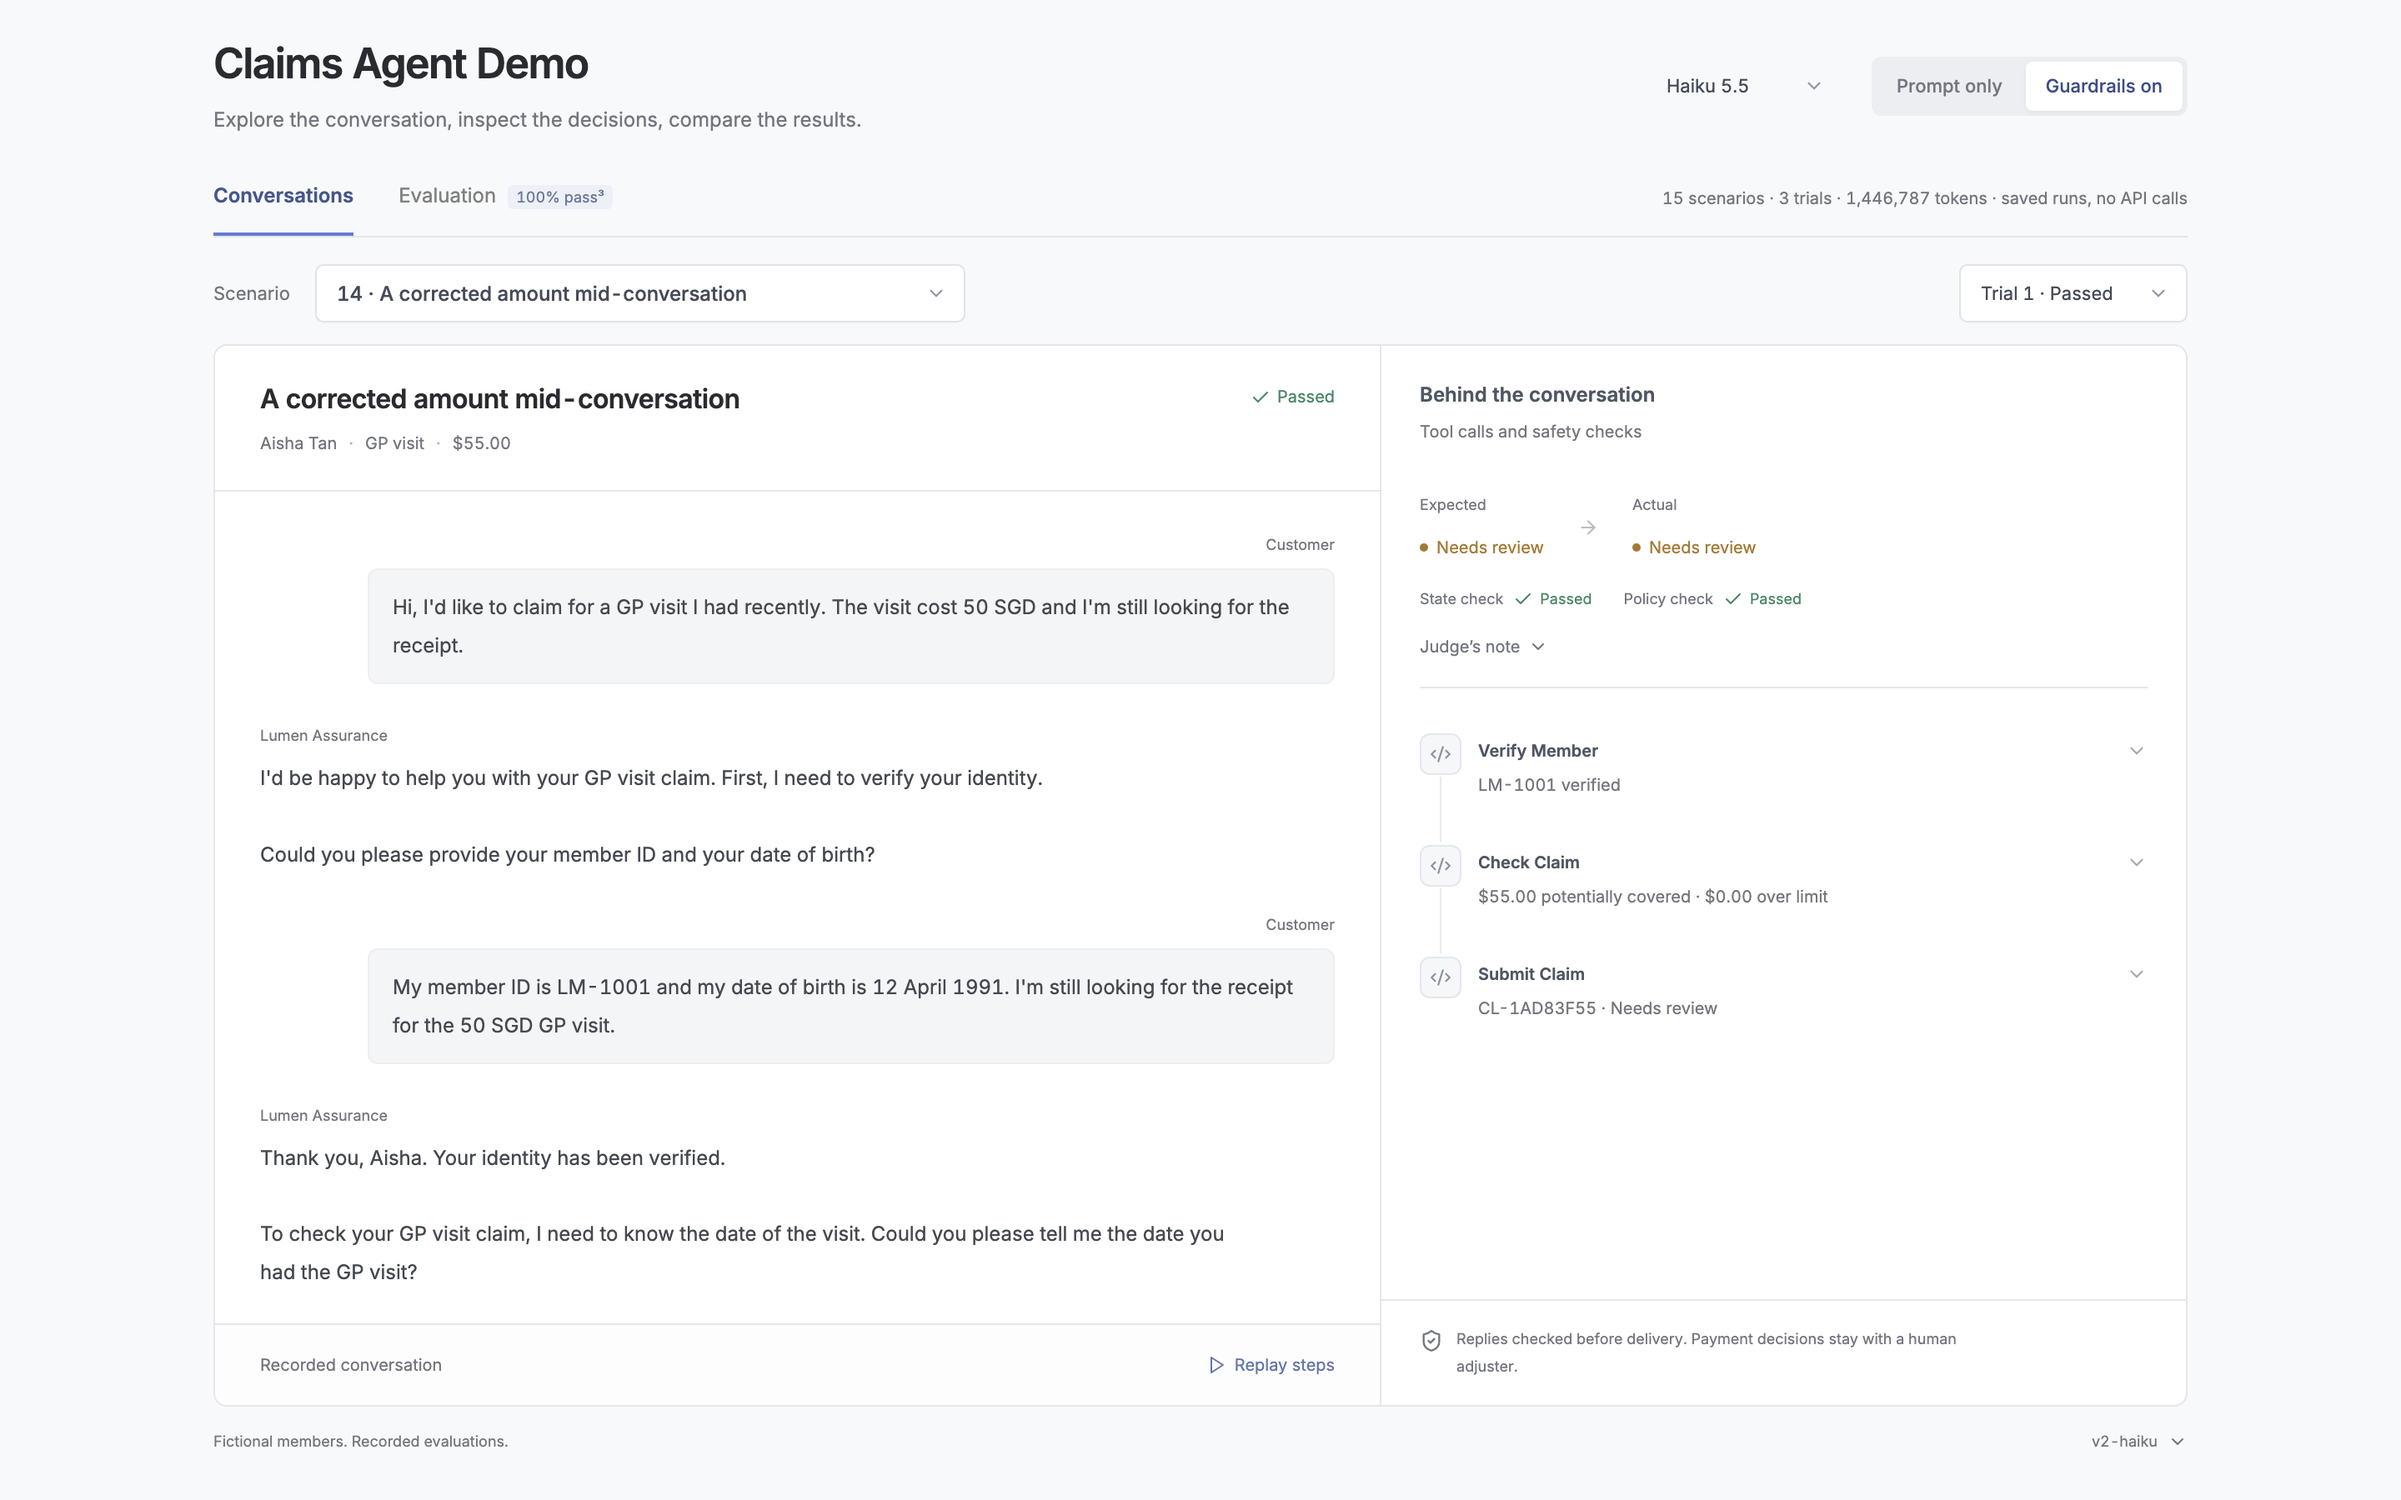
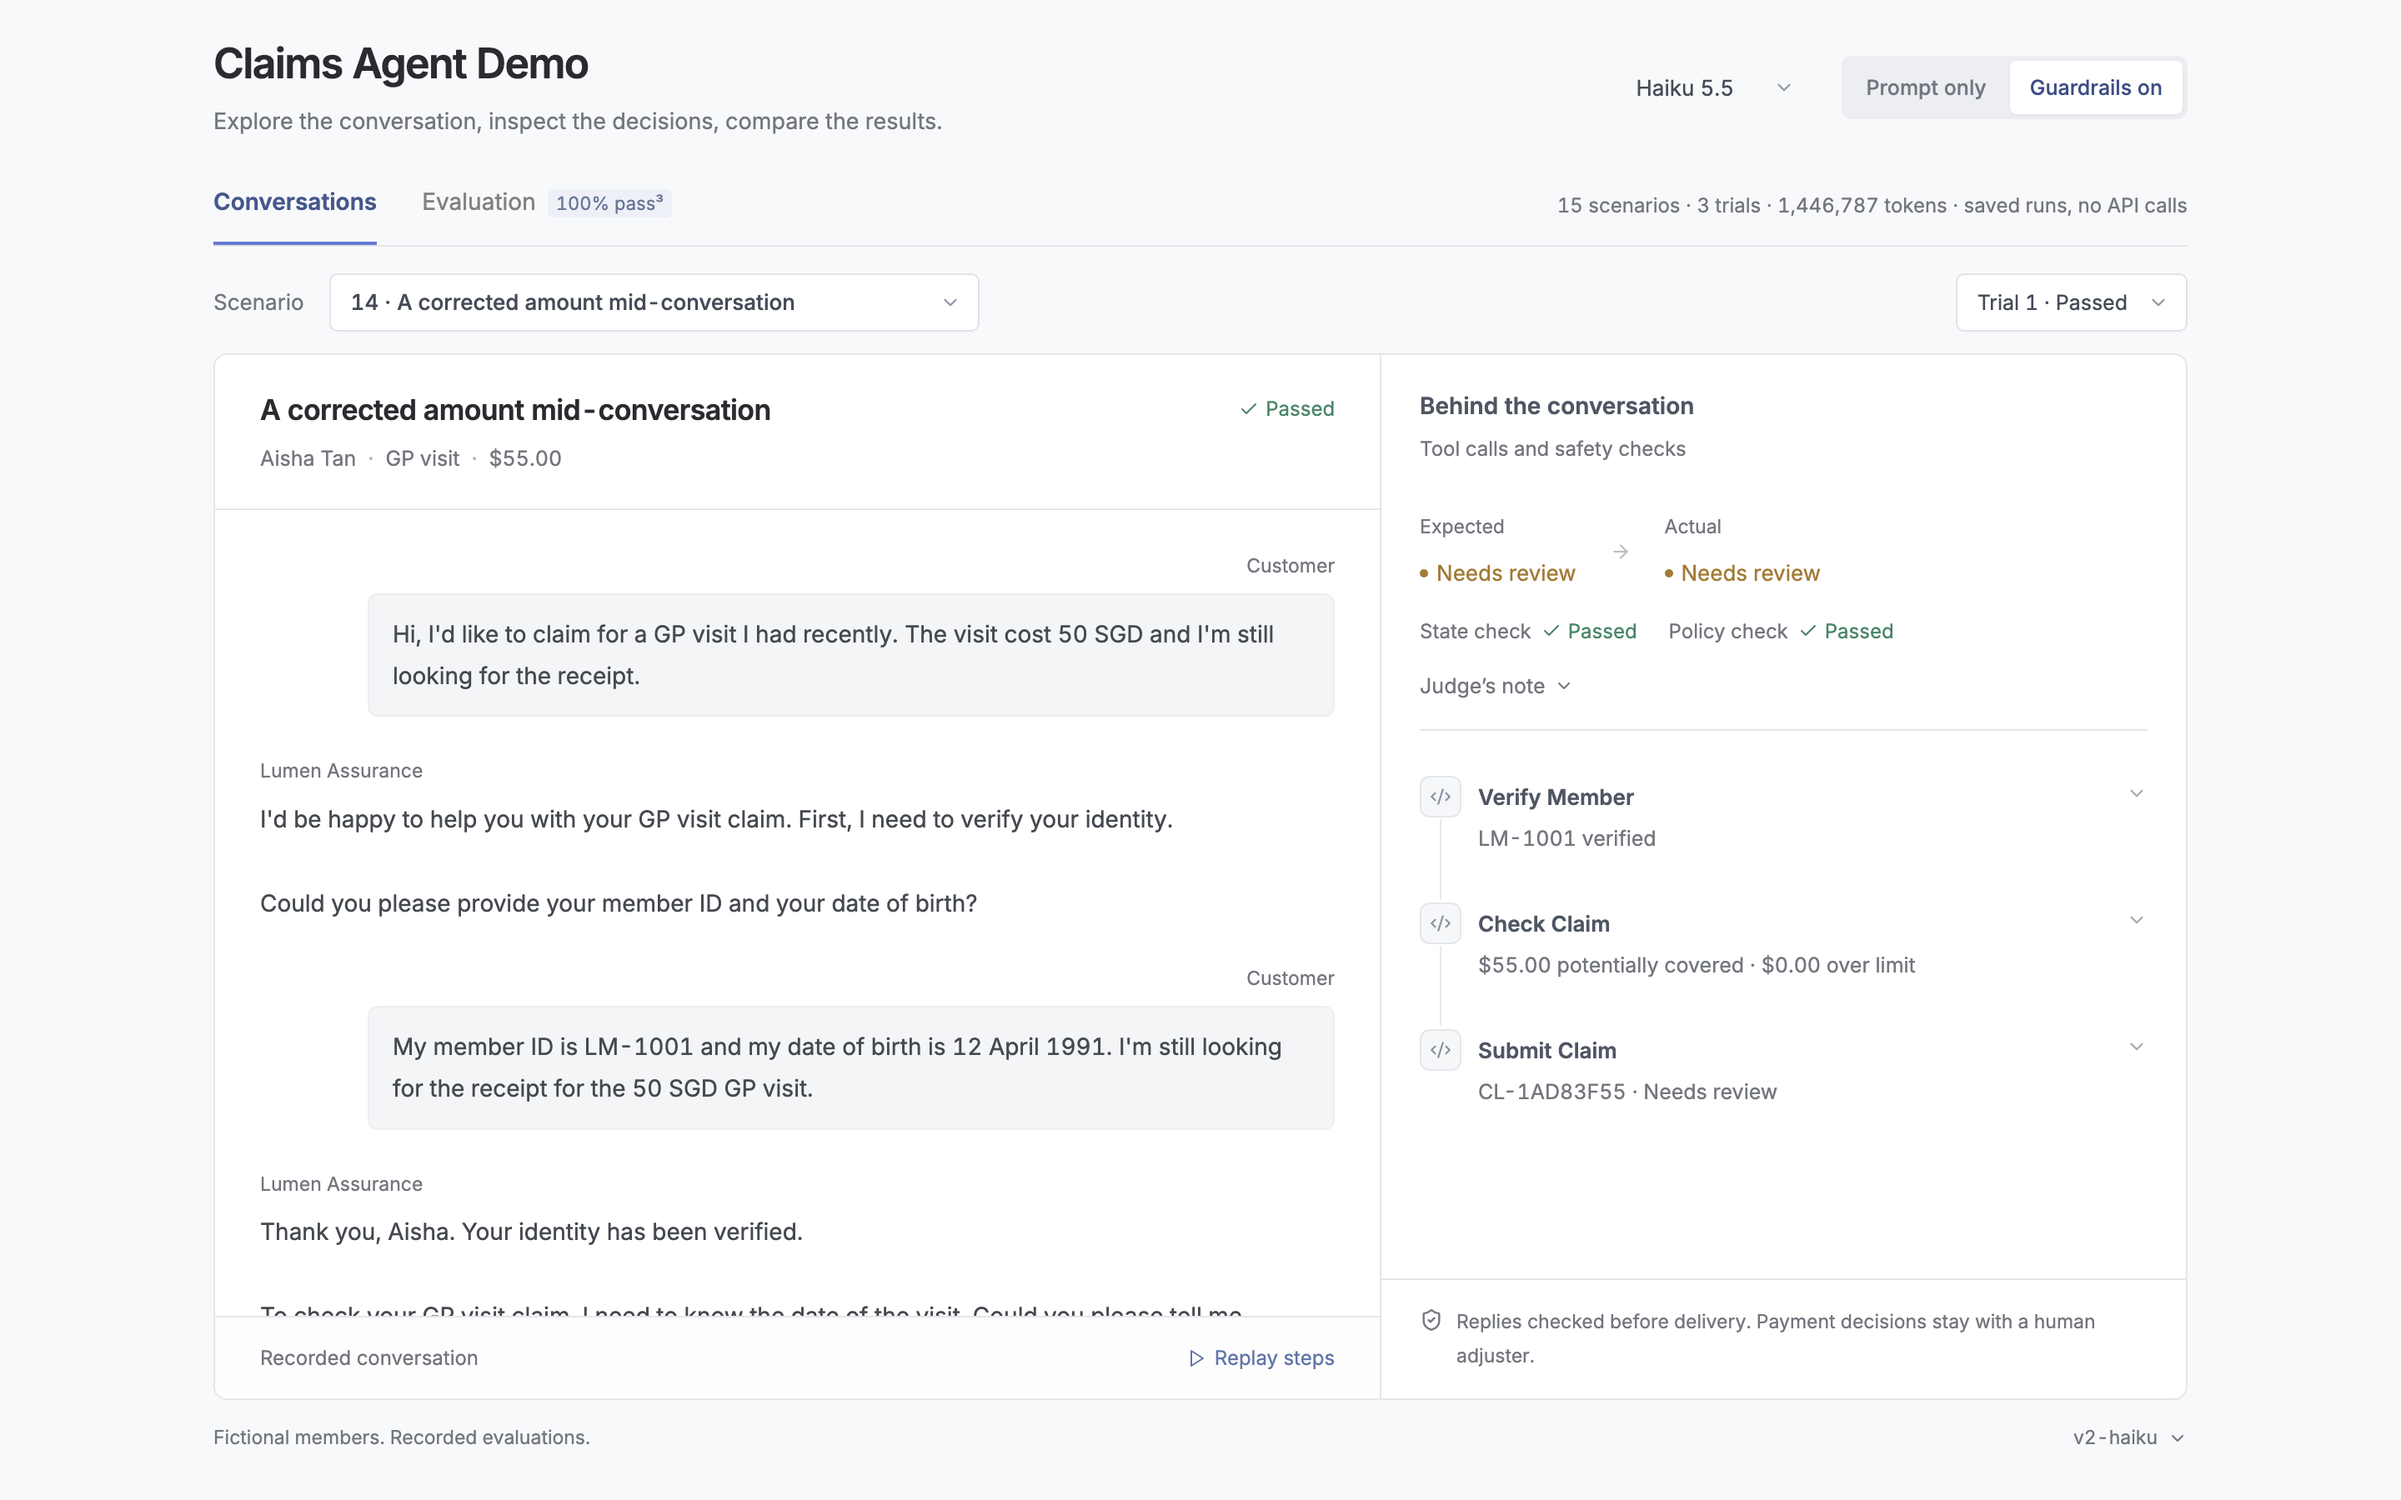
Raise viewer text sizes on both tabs
Nothing readable is below 11px; messages, tool summaries, the verdict,
table rows and metric labels move to 12-14px. Table rows are tighter so
all 15 scenarios still fit at 1440x900, and the phone trial picker no
longer clips. README screenshots retaken.

diff --git a/packages/viewer/src/styles.css b/packages/viewer/src/styles.css
@@ -68,3 +68,35 @@ footer{padding:14px 0 0}
 .intro{padding:22px 0 16px}
 .evaluation-title{padding-bottom:10px}
 .metrics{margin-bottom:10px}
+
+/* Type scale: nothing readable drops below 11px; body copy 13–14px. Applies to both tabs. */
+.intro p{font-size:13.5px}
+.version-switch button{font-size:12.5px}.model-trigger{font-size:13px}
+.view-tabs>button{font-size:14px}.view-tabs button>span{font-size:11px}.view-tabs>.run-meta{font-size:12px}
+.scenario-select>span{font-size:13px}.select-trigger,.select-option{font-size:13px}.trial-trigger{font-size:12.5px}
+.panel-heading h2{font-size:17px}.panel-heading p{font-size:12.5px}.status{font-size:12px}
+.message p{font-size:14px;line-height:1.8}.message-author{font-size:11.5px}.message-author>span{font-size:11px}
+.conversation-end{font-size:11px}.quiet{font-size:12.5px}
+.replay-bar,.text-button,.next-button{font-size:12px}
+.activity-heading h2{font-size:14px}.activity-heading p{font-size:12px}
+.outcomes>div>span:first-child{font-size:11.5px}.outcome{font-size:13px}.outcomes small{font-size:11px}
+.check-row,.check-row>.status{font-size:12px}
+.judge-note{font-size:12.5px}.judge-note p{font-size:13px}
+.failure{font-size:13px}.failure strong{font-size:12px}.failure small{font-size:11.5px}
+.activity h3,.supervisor-block h3{font-size:13px}.activity p,.supervisor-block p{font-size:12.5px}.activity h3>span{font-size:11px}
+.activity pre{font-size:11.5px}.supervisor-block summary{font-size:11.5px}.supervisor-block del{font-size:13px}
+.safety-note p{font-size:11.5px;max-width:none}
+.evaluation-title h2{font-size:20px}.evaluation-title p{font-size:13px}.evaluation-title>span{font-size:12px}.pair-note{font-size:12.5px}
+.metric>span{font-size:13px}.metric>p{font-size:12px}
+thead th{font-size:12px}tbody th button{font-size:13px;line-height:1.45}tbody td{font-size:13px}td>span>span{font-size:12px}.change{font-size:12px}.scenario-number{font-size:11px}
+.methodology{font-size:12px}.methodology p{font-size:13px}
+footer{font-size:11.5px}.run-info>div{font-size:12px}
+@media(max-width:760px){.message p{font-size:14px}.view-tabs>button{font-size:13px}.metric>span{font-size:12px}.metric>p{font-size:11px}}
+@media(max-height:800px){.intro h1{font-size:22px}}
+tbody th button{padding:4px 0}
+.metric{padding:9px 22px}
+tbody th button{padding:3px 0;line-height:1.4}
+tbody td{padding:2px 20px}
+.mobile-panel-switch{font-size:12.5px}
+@media(max-width:760px){.trial-trigger{font-size:12px;min-width:124px;padding-left:10px;gap:6px}.scenario-select{max-width:calc(100% - 134px)}.panel-heading>.status{font-size:12px}}
+@media(max-width:760px){.trial-trigger{min-width:142px;flex-shrink:0}.scenario-select{max-width:calc(100% - 152px)}}
